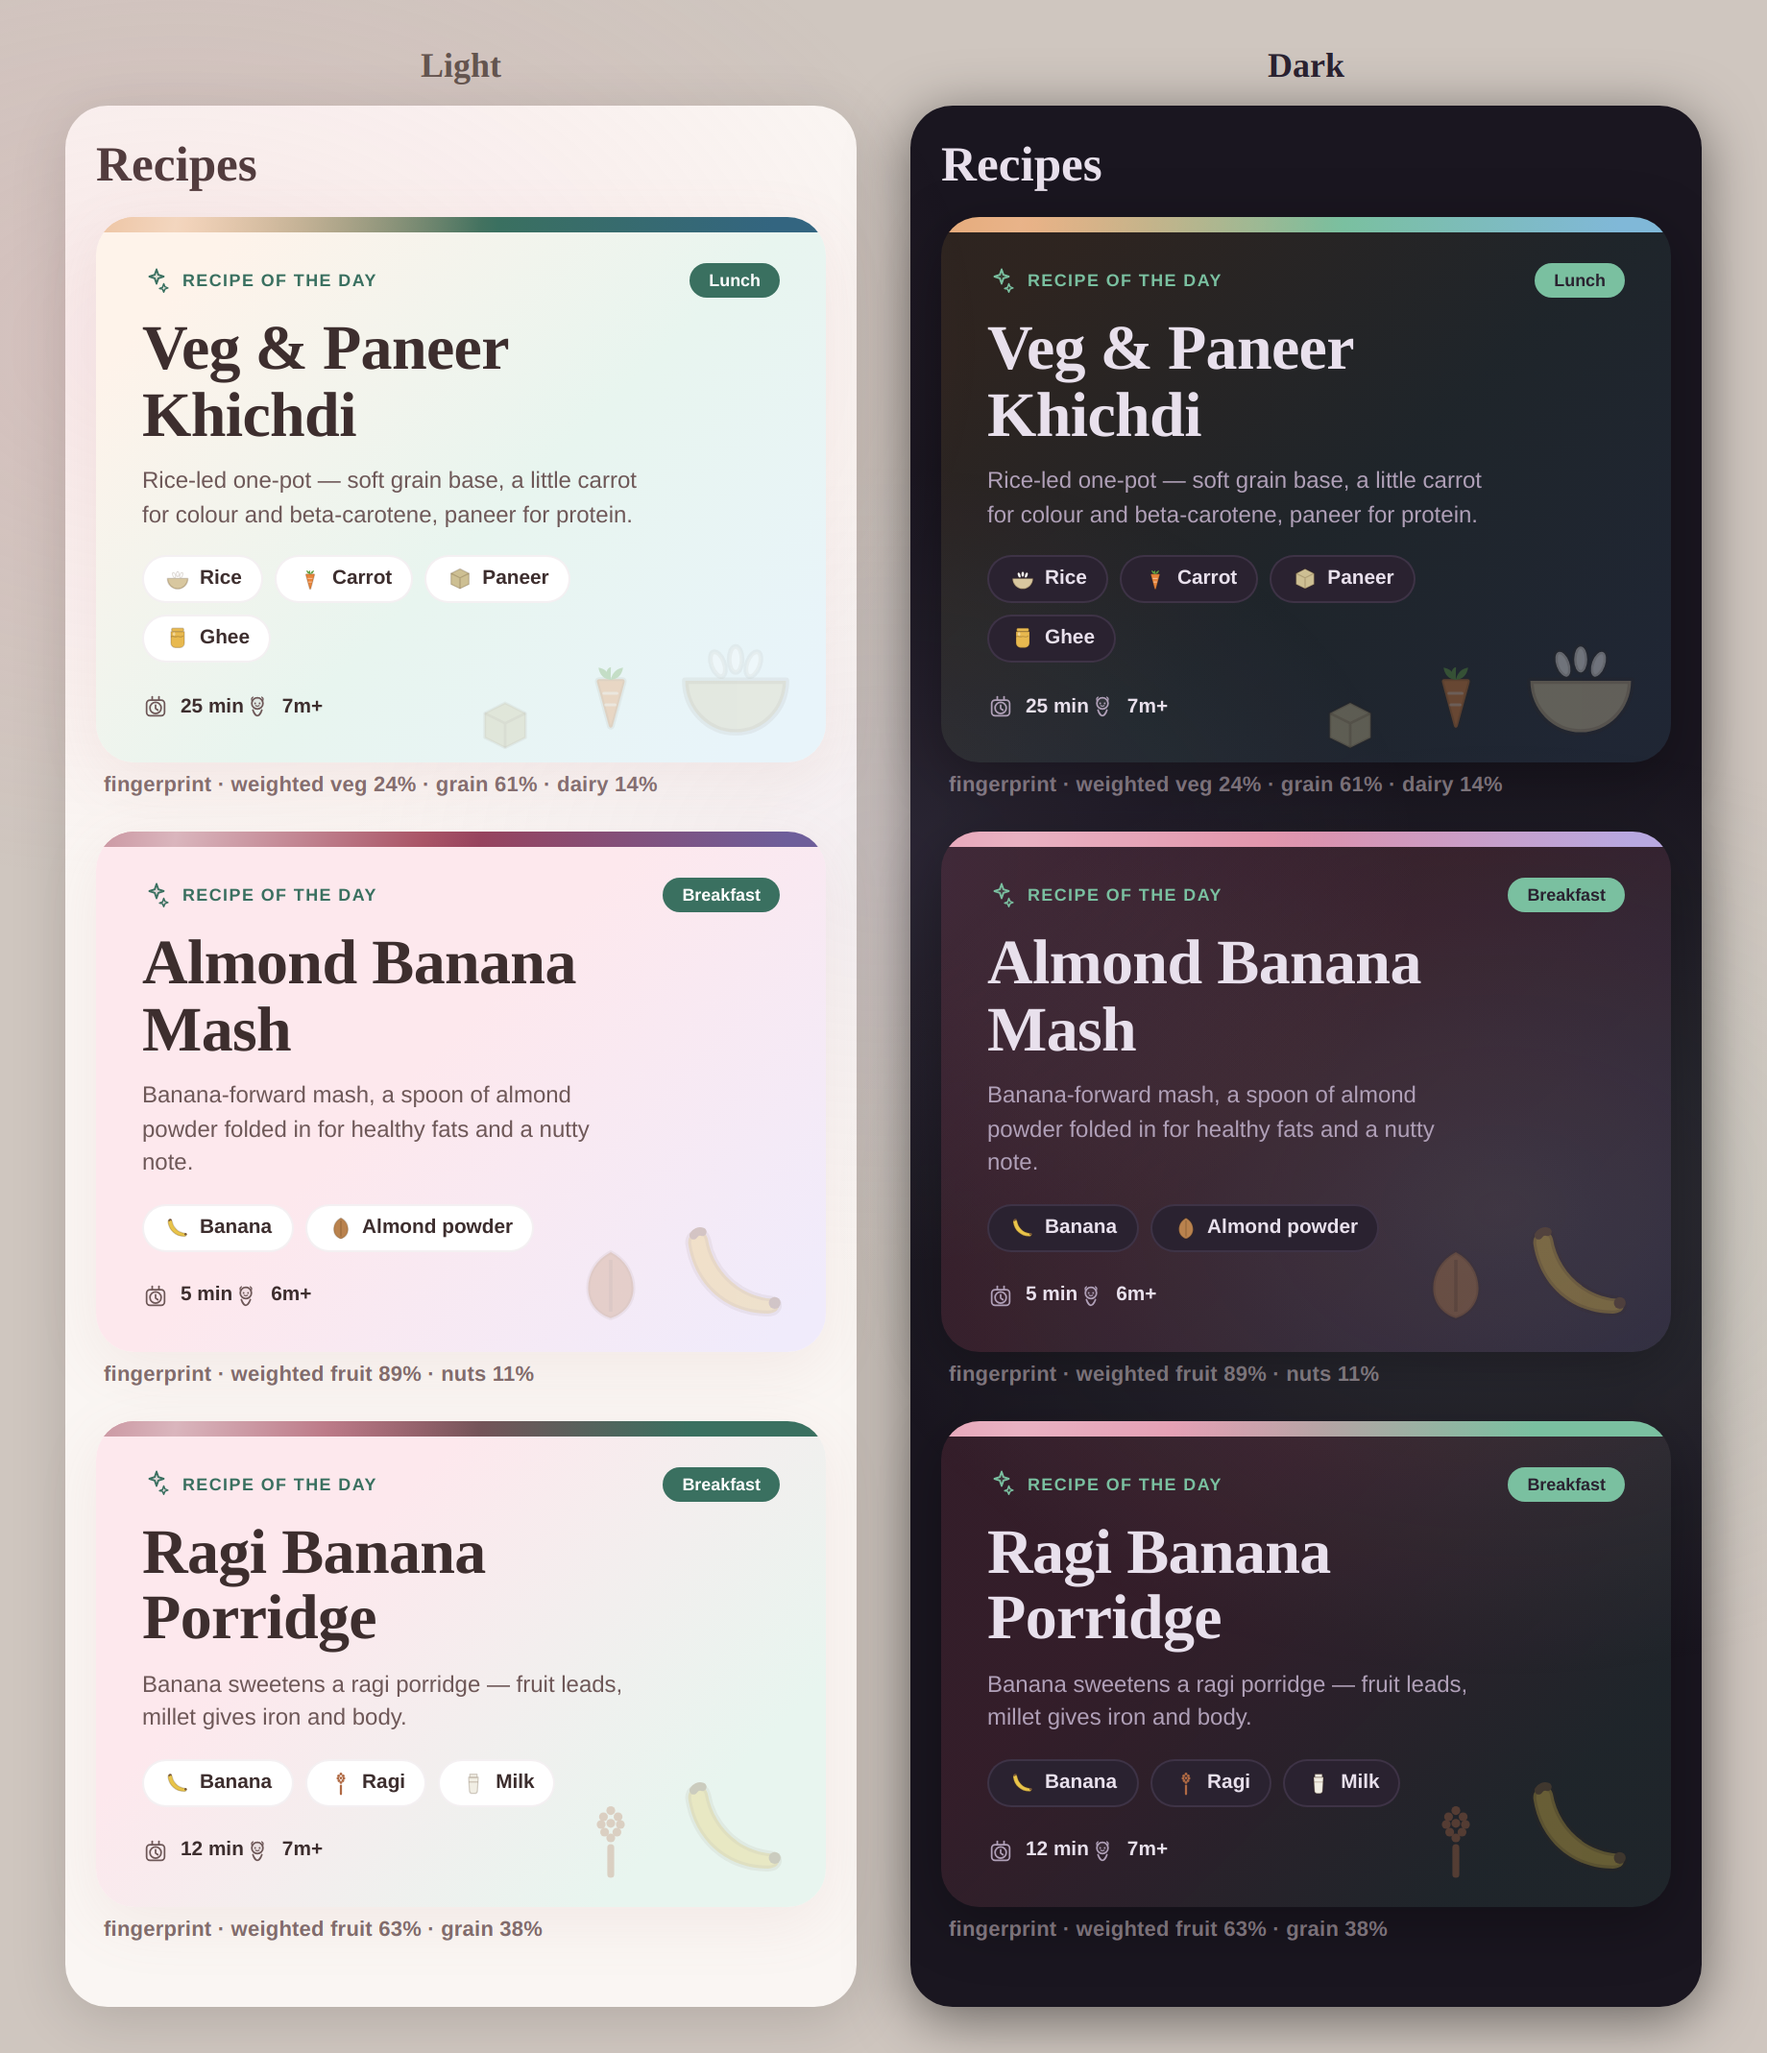
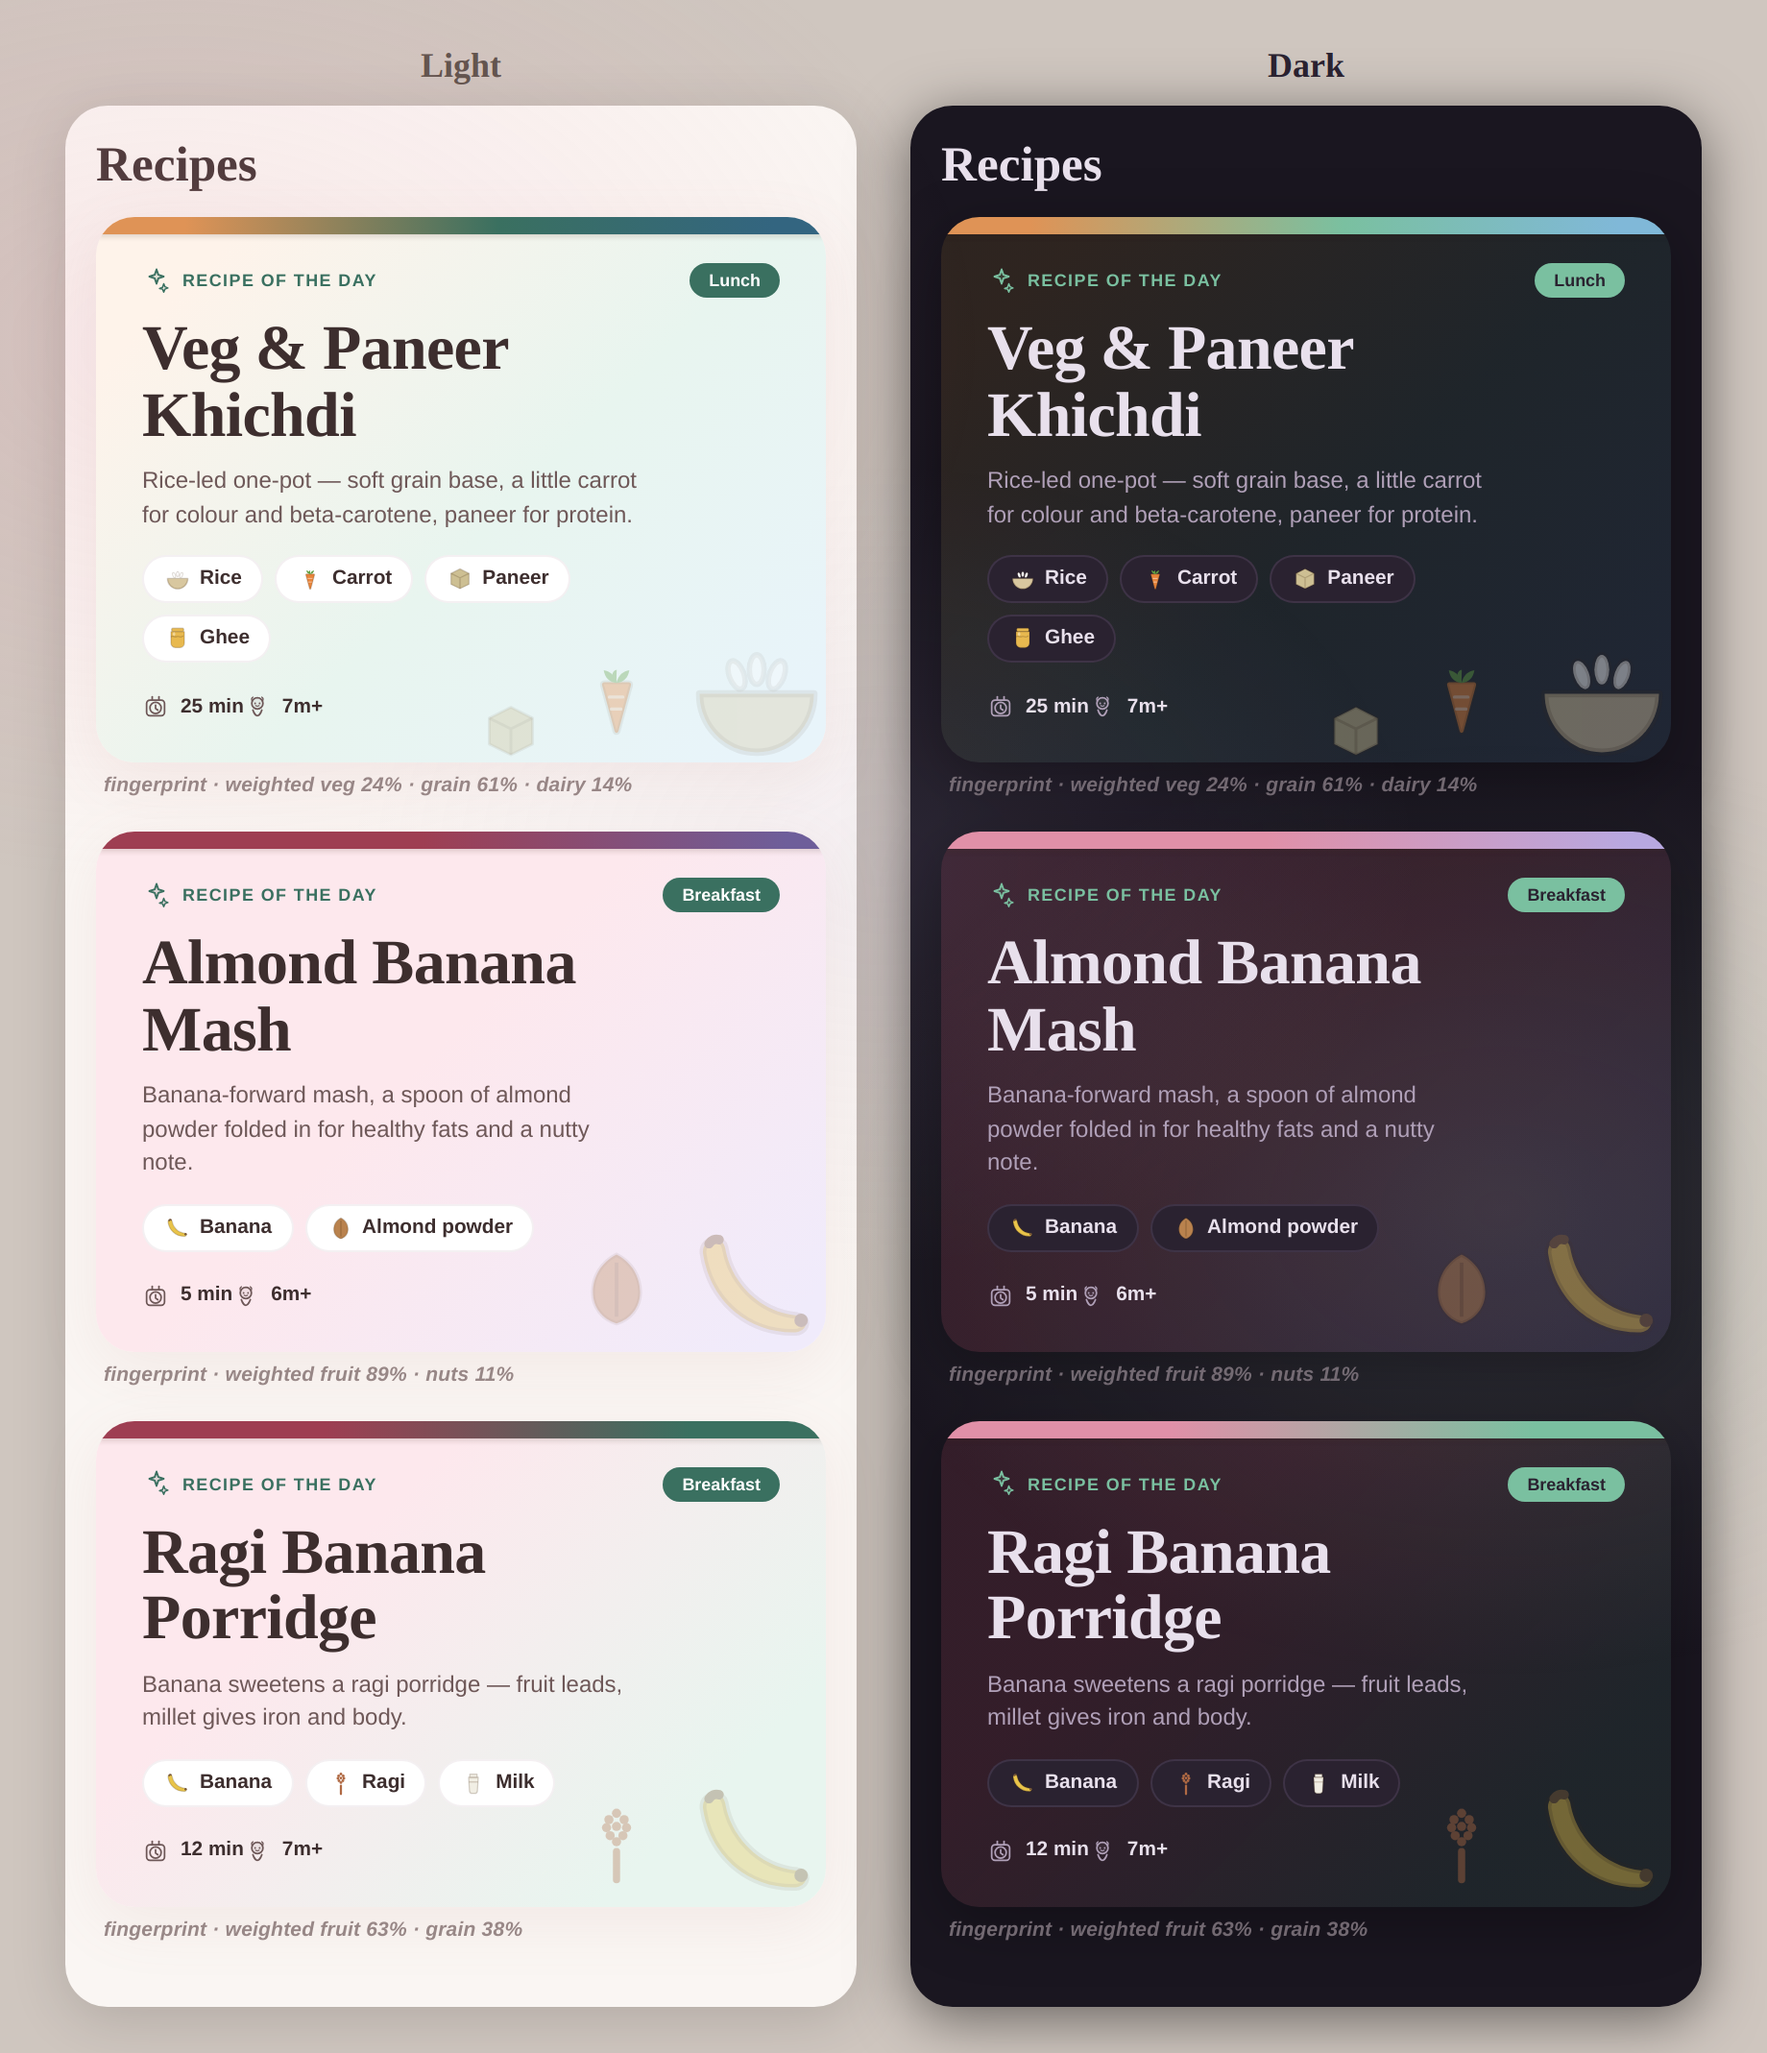
design: S9 hero polish round
- Watermark legibility: opacity .26->.32 (light) / .36->.42 (dark); reflowed
  to an organic arc with the dominant icon anchoring the corner (bleeds
  slightly off-edge), still non-overlapping.
- Stripe reads as a ribbon: 9px + soft drop shadow; warm-wave sheen softened
  (.5 alpha, wider band) and slowed to a 4.4s ease loop (less blown-out).
- Fingerprint caption quieted (italic, lighter).
Docs-only.

diff --git a/docs/design/recipes-tab/09-stripe-filmstrip.html b/docs/design/recipes-tab/09-stripe-filmstrip.html
@@ -2,9 +2,9 @@
 <style>html,body{background:#efe7df;margin:0}body{font-family:Nunito,sans-serif;padding:26px}
 h1{font-family:Fraunces,serif;font-size:20px;margin:0 0 4px}.sub{font-size:12px;color:#7a6f66;margin:0 0 18px;max-width:640px}
 .row{display:flex;align-items:center;gap:12px;margin:0 0 14px}.lbl{font-size:11px;font-weight:800;color:#9a8f86;width:20px}
-.bar{position:relative;flex:1;height:16px;border-radius:8px;overflow:hidden;box-shadow:0 1px 4px rgba(0,0,0,.12)}
+.bar{position:relative;flex:1;height:16px;border-radius:8px;overflow:hidden;box-shadow:0 1px 3px rgba(60,40,20,.18)}
 .grad{position:absolute;inset:0;background:linear-gradient(90deg, #df9356 0%, #df9356 12.2%, var(--tc-sage) 55.1%, var(--tc-sky) 92.9%, var(--tc-sky) 100%)}
-.sheen{position:absolute;inset:0;background-image:linear-gradient(100deg,transparent 0 36%,rgba(255,255,255,.62) 50%,transparent 64% 100%);background-size:300% 100%}
+.sheen{position:absolute;inset:0;background-image:linear-gradient(100deg,transparent 0 38%,rgba(255,255,255,.5) 50%,transparent 62% 100%);background-size:320% 100%}
 .cap{font-size:11px;color:#9a8f86;margin:14px 0 0}</style></head><body>
 <svg style="display:none"><symbol id="zif-rice" viewBox="0 0 24 24"><path d="M3.5 11.5h17c0 4.8-3.8 8.7-8.5 8.7S3.5 16.3 3.5 11.5z" fill="currentColor" stroke="rgba(74,48,22,.22)" stroke-width="1.1" stroke-linejoin="round"/><g fill="#fff" stroke="rgba(74,48,22,.18)" stroke-width=".8"><ellipse cx="9" cy="8.7" rx="1.1" ry="2.2" transform="rotate(-20 9 8.7)"/><ellipse cx="12" cy="7.9" rx="1.1" ry="2.2"/><ellipse cx="15" cy="8.7" rx="1.1" ry="2.2" transform="rotate(20 15 8.7)"/></g></symbol>
 <symbol id="zif-millet" viewBox="0 0 24 24"><path d="M12 21v-7" stroke="currentColor" stroke-width="1.8" stroke-linecap="round" fill="none"/><g fill="currentColor"><circle cx="12" cy="4.4" r="1.15"/><circle cx="10.1" cy="6" r="1.15"/><circle cx="13.9" cy="6" r="1.15"/><circle cx="9.5" cy="8" r="1.15"/><circle cx="12" cy="7.7" r="1.15"/><circle cx="14.5" cy="8" r="1.15"/><circle cx="10.4" cy="10" r="1.15"/><circle cx="13.6" cy="10" r="1.15"/><circle cx="12" cy="11.5" r="1.15"/></g></symbol>
@@ -68,6 +68,6 @@ h1{font-family:Fraunces,serif;font-size:20px;margin:0 0 4px}.sub{font-size:12px;
 <symbol id="zif-jaggery" viewBox="0 0 24 24"><path d="M4.6 14.2l1.3-4.4 4.2-2.1 4.7.3 3.4 2.9-.6 5-4.4 2.7-6 .2z" fill="currentColor" stroke="rgba(74,48,22,.22)" stroke-width="1" stroke-linejoin="round"/><path d="M5.9 9.8l4.4 1.9 4.5-1.6M10.3 11.7l-.5 7.2" stroke="rgba(74,48,22,.28)" stroke-width=".8" fill="none"/><path d="M17.4 17.2l2 .6-.5 1.9-1.9-.5z" fill="currentColor" stroke="rgba(74,48,22,.22)" stroke-width=".8" stroke-linejoin="round"/><g fill="rgba(74,48,22,.32)"><circle cx="8.4" cy="13.4" r=".4"/><circle cx="12" cy="14.2" r=".4"/><circle cx="13.8" cy="12.6" r=".4"/><circle cx="10.2" cy="15.4" r=".4"/></g></symbol>
 <symbol id="zif-honey" viewBox="0 0 24 24"><path d="M7 5h10v2l-1.5 1.5v3L17 14v4a2 2 0 01-2 2H9a2 2 0 01-2-2v-4l1.5-2.5v-3L7 7z" fill="currentColor" stroke="rgba(74,48,22,.22)" stroke-width="1" stroke-linejoin="round"/><path d="M9 15h6" stroke="rgba(74,48,22,.25)" stroke-width="1" fill="none"/></symbol></svg>
 <h1>Warm-wave stripe — motion filmstrip</h1>
-<p class="sub">The weighted stripe (Khichdi: peach→sage→sky, grain-dominant) now in saturated --tc-* tokens, at five sweep phases. In-browser the sheen travels left→right ~3.2s/loop. Colour band-widths stay fixed (they encode quantity); only the highlight moves.</p>
-<div class="row"><span class="lbl">t0</span><div class="bar"><div class="grad"></div><div class="sheen" style="background-position:130% 0"></div></div></div><div class="row"><span class="lbl">t1</span><div class="bar"><div class="grad"></div><div class="sheen" style="background-position:80% 0"></div></div></div><div class="row"><span class="lbl">t2</span><div class="bar"><div class="grad"></div><div class="sheen" style="background-position:30% 0"></div></div></div><div class="row"><span class="lbl">t3</span><div class="bar"><div class="grad"></div><div class="sheen" style="background-position:-20% 0"></div></div></div><div class="row"><span class="lbl">t4</span><div class="bar"><div class="grad"></div><div class="sheen" style="background-position:-70% 0"></div></div></div>
+<p class="sub">The weighted stripe (Khichdi: peach→sage→sky, grain-dominant) at five sweep phases — gentler 4.4s ease loop. In-browser the sheen travels left→right continuously. Colour band-widths stay fixed (they encode quantity); only the highlight moves.</p>
+<div class="row"><span class="lbl">t0</span><div class="bar"><div class="grad"></div><div class="sheen" style="background-position:135% 0"></div></div></div><div class="row"><span class="lbl">t1</span><div class="bar"><div class="grad"></div><div class="sheen" style="background-position:80% 0"></div></div></div><div class="row"><span class="lbl">t2</span><div class="bar"><div class="grad"></div><div class="sheen" style="background-position:30% 0"></div></div></div><div class="row"><span class="lbl">t3</span><div class="bar"><div class="grad"></div><div class="sheen" style="background-position:-25% 0"></div></div></div><div class="row"><span class="lbl">t4</span><div class="bar"><div class="grad"></div><div class="sheen" style="background-position:-75% 0"></div></div></div>
 <p class="cap">t0→t4 = one sweep cycle.</p></body></html>

diff --git a/docs/design/recipes-tab/09-hero-motion.html b/docs/design/recipes-tab/09-hero-motion.html
@@ -20,22 +20,22 @@
 
   .gh{position:relative;overflow:hidden;border-radius:var(--r-2xl);padding:var(--sp-24) var(--sp-24) 22px;box-shadow:0 8px 32px var(--shadow);margin-bottom:6px;background:var(--fl);}
   [data-theme="dark"] .gh{background:var(--fd);}
-  /* weighted stripe + warm-wave sheen */
-  .gh::before{content:'';position:absolute;top:0;left:0;right:0;height:8px;z-index:2;background:var(--stripe);}
-  .gh::after{content:'';position:absolute;top:0;left:0;right:0;height:8px;z-index:3;pointer-events:none;
-    background:linear-gradient(100deg,transparent 0 36%,rgba(255,255,255,.62) 50%,transparent 64% 100%);
-    background-size:300% 100%;animation:ghsweep 3.2s linear infinite;}
-  [data-theme="dark"] .gh::after{background:linear-gradient(100deg,transparent 0 36%,rgba(255,255,255,.30) 50%,transparent 64% 100%);background-size:300% 100%;}
-  @keyframes ghsweep{0%{background-position:130% 0;}100%{background-position:-70% 0;}}
+  /* weighted stripe (ribbon w/ soft drop) + warm-wave sheen */
+  .gh::before{content:'';position:absolute;top:0;left:0;right:0;height:9px;z-index:2;background:var(--stripe);box-shadow:0 1px 3px rgba(60,40,20,.18);}
+  .gh::after{content:'';position:absolute;top:0;left:0;right:0;height:9px;z-index:3;pointer-events:none;
+    background:linear-gradient(100deg,transparent 0 38%,rgba(255,255,255,.5) 50%,transparent 62% 100%);
+    background-size:320% 100%;animation:ghsweep 4.4s ease-in-out infinite;}
+  [data-theme="dark"] .gh::after{background:linear-gradient(100deg,transparent 0 38%,rgba(255,255,255,.26) 50%,transparent 62% 100%);background-size:320% 100%;}
+  @keyframes ghsweep{0%{background-position:135% 0;}100%{background-position:-75% 0;}}
 
-  /* watermark — bottom-hugging fan, non-overlapping, dominant = big; never climbs to title */
-  .gh-wm{position:absolute;right:0;bottom:0;width:200px;height:96px;pointer-events:none;z-index:0;}
+  /* watermark — organic arc, dominant icon anchors the corner (bleeds slightly); non-overlapping */
+  .gh-wm{position:absolute;right:0;bottom:0;width:210px;height:104px;pointer-events:none;z-index:0;}
   .gh-wm .wi{position:absolute;}
-  .gh-wm .s1{width:74px;height:74px;right:10px;bottom:4px;}
-  .gh-wm .s2{width:48px;height:48px;right:88px;bottom:11px;}
-  .gh-wm .s3{width:34px;height:34px;right:150px;bottom:2px;}
-  .gh-wm .zi{width:100%;height:100%;opacity:.26;}
-  [data-theme="dark"] .gh-wm .zi{opacity:.36;}
+  .gh-wm .s1{width:84px;height:84px;right:-6px;bottom:-8px;}
+  .gh-wm .s2{width:50px;height:50px;right:84px;bottom:8px;}
+  .gh-wm .s3{width:36px;height:36px;right:146px;bottom:-2px;}
+  .gh-wm .zi{width:100%;height:100%;opacity:.32;}
+  [data-theme="dark"] .gh-wm .zi{opacity:.42;}
 
   .gh-top{position:relative;z-index:1;display:flex;align-items:center;justify-content:space-between;gap:var(--sp-8);margin-bottom:var(--sp-10);}
   .gh-eyebrow{display:inline-flex;align-items:center;gap:var(--sp-6);font-size:var(--fs-2xs);font-weight:800;text-transform:uppercase;letter-spacing:var(--ls-wide);color:var(--tc-sage);}
@@ -49,7 +49,7 @@
   .gh-foot{position:relative;z-index:1;display:flex;align-items:center;gap:var(--sp-14);}
   .gh-meta{display:flex;align-items:center;gap:var(--sp-6);font-size:var(--fs-xs);color:var(--mid);}
   .gh-meta .zi{width:14px;height:14px;}.gh-meta b{color:var(--text);font-weight:700;}
-  .fp{font-size:11px;font-weight:700;color:var(--light);margin:0 0 18px;padding-left:4px;letter-spacing:.01em;}
+  .fp{font-size:10.5px;font-style:italic;font-weight:600;color:var(--light);opacity:.8;margin:0 0 18px;padding-left:4px;letter-spacing:.01em;}
   [data-theme="dark"] .fp{color:#8a7f88;}
 </style></head><body>
 <svg style="display:none"><symbol id="zif-rice" viewBox="0 0 24 24"><path d="M3.5 11.5h17c0 4.8-3.8 8.7-8.5 8.7S3.5 16.3 3.5 11.5z" fill="currentColor" stroke="rgba(74,48,22,.22)" stroke-width="1.1" stroke-linejoin="round"/><g fill="#fff" stroke="rgba(74,48,22,.18)" stroke-width=".8"><ellipse cx="9" cy="8.7" rx="1.1" ry="2.2" transform="rotate(-20 9 8.7)"/><ellipse cx="12" cy="7.9" rx="1.1" ry="2.2"/><ellipse cx="15" cy="8.7" rx="1.1" ry="2.2" transform="rotate(20 15 8.7)"/></g></symbol>
